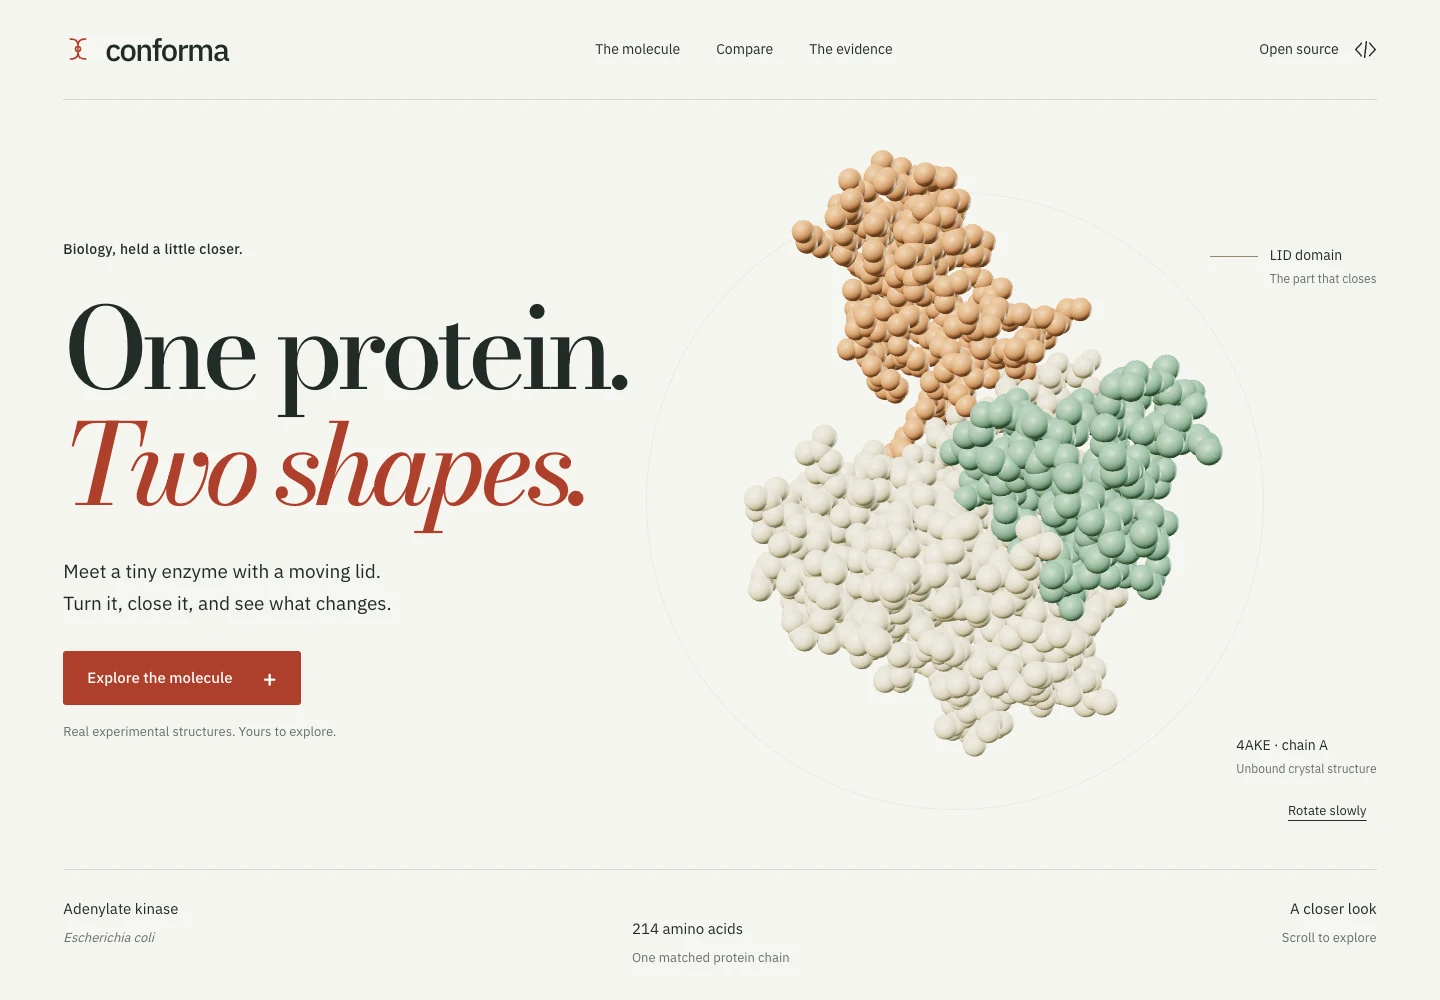
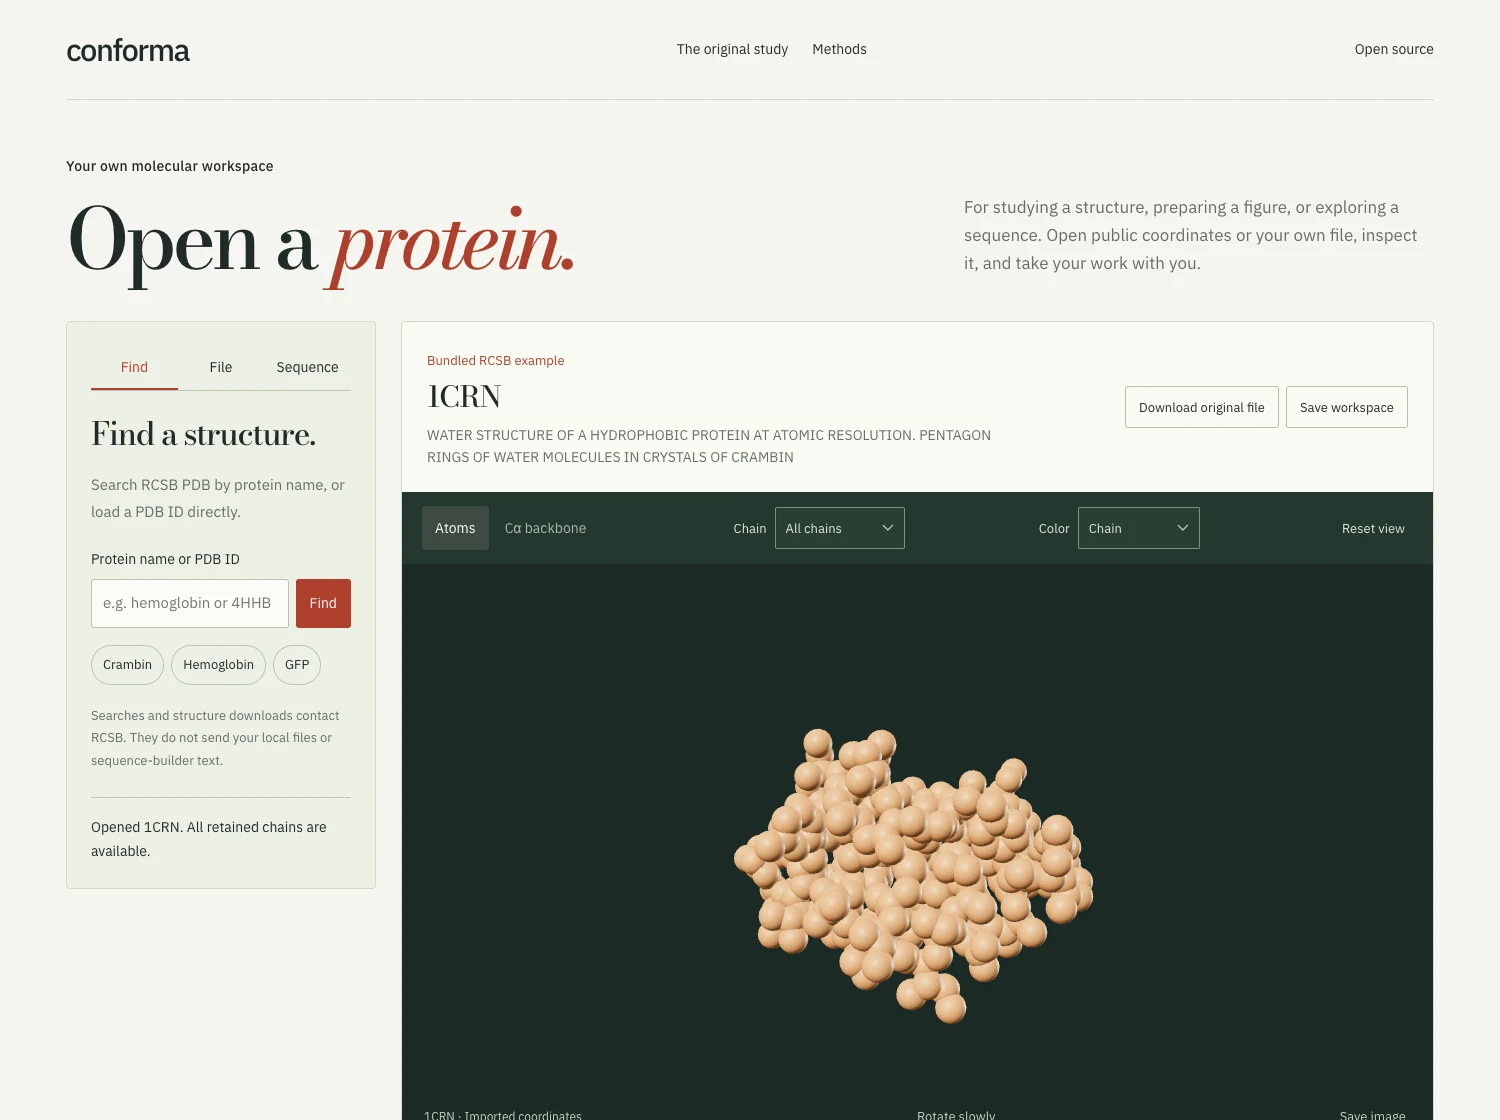
Present Conforma as a portable protein workspace with a personal project story

diff --git a/data/projects.ts b/data/projects.ts
@@ -24,42 +24,38 @@ export const projects: Project[] = [
   "slug": "conforma",
   "name": "Conforma",
   "category": "Interactive structural biology",
-  "summary": "One protein. Two shapes.",
-  "detail": "Turn a real molecular structure, compare two experimental conformations, and measure what changes. Conforma brings a reproducible structural comparison into an editorial, hands-on WebGL experience.",
-  "tech": "Protein structures · Rigid alignment · WebGL · Independent numerical checks",
+  "summary": "Open a protein. Keep the work.",
+  "detail": "A browser-based protein workspace: find public structures, open local coordinates, construct sequence geometry, inspect and measure atoms, and save a workspace you can reopen without an account.",
+  "tech": "PDB/mmCIF · WebGL · Sequence geometry · Portable workspaces",
   "color": "#cf946e",
   "kind": "pattern",
   "example": false,
   "image": "/images/conforma.webp",
-  "imageAlt": "Conforma working application: a real adenylate kinase structure rendered beside its editorial cover",
-  "imageCaption": "Actual Conforma application · published PDB coordinates, stylized atomic display",
+  "imageAlt": "Conforma protein workspace displaying real hemoglobin coordinates and molecular inspection controls",
+  "imageCaption": "Working protein workspace · real coordinates, local imports and portable exports",
   "focus": [
-    "Published experimental structures",
-    "Core-versus-whole-chain alignment",
-    "Reproducible endpoint measurements"
+    "Public and private coordinate imports",
+    "Local sequence construction",
+    "Reopenable workspaces with integrity checks"
   ],
   "story": [
-    {
-      "title": "Start with two real observations",
-      "text": "The experience compares adenylate kinase in its unbound 4AKE structure and AP5A inhibitor-bound 1AKE structure. It matches 214 Cα residues and 1,656 common heavy atoms, keeping raw coordinate files, source URLs, retrieval times and SHA-256 hashes with the project."
-    },
-    {
-      "title": "Make the comparison tangible",
-      "text": "A custom instanced WebGL renderer lets you rotate atomic beads or a smooth Cα backbone, highlight the core, NMP region and lid, and overlay the endpoints. A residue ruler reports distances in both observed structures. Full study JSON and labeled PNG exports preserve the analysis context."
-    },
-    {
-      "title": "Let the reference frame be questioned",
-      "text": "A Horn quaternion fit aligns the structures using either 133 core Cα atoms or all 214 matched residues. Changing that selection recalculates the displacement plot and domain RMSDs, making alignment sensitivity visible rather than hiding it behind a single score."
-    },
-    {
-      "title": "Check the mathematics independently",
-      "text": "Ten core tests cover source integrity, coordinate derivation, rigid transforms, reflection rejection, correspondence and measurement invariance. An executed NumPy SVD comparison checked both real fits and 30 seeded transform cases. Desktop, emulated-phone, export and non-WebGL fallback workflows passed in a software-WebGL browser."
-    },
-    {
-      "title": "Keep the picture honest",
-      "text": "Intermediate slider frames are linear geometric interpolation, not a measured transition or molecular-dynamics trajectory. Atomic beads are a stylized display. The app does not compute a reaction mechanism, energies, rates or binding affinity. Physical-device and experimental validation are not claimed."
-    }
-  ],
+  {
+    "title": "Why I\u2019m building this",
+    "text": "I\u2019m a chemical biology student at UC Berkeley. I want people to be able to bring their own question to a protein, inspect its coordinates and leave with something they can reuse. Conforma makes that intent practical: local files stay on the device, methods are open, and workspaces can be saved without an account."
+  },
+  {
+    "title": "From a sequence or structure to useful work",
+    "text": "Search RCSB PDB by name or ID, open a local PDB/mmCIF file, select chains, inspect residues and measure atom distances. Export original coordinates, a labeled image or modeled-residue FASTA. The sequence builder constructs idealized geometry from chosen backbone torsions and optional CCD side-chain templates; it does not predict a native fold."
+  },
+  {
+    "title": "Save work that actually reopens",
+    "text": "Version 2 workspace records embed coordinate text and view settings. Reopening checks SHA-256, reparses source coordinates and ignores saved parsed atoms and claimed source URLs. Constructed models are rebuilt from a recipe and must reproduce the saved PDB. The hash checks integrity, not scientific validity or authenticated provenance."
+  },
+  {
+    "title": "Keep the original evidence workbench",
+    "text": "The original adenylate kinase comparison remains available as a separate study. Its Horn quaternion fitting engine was checked against NumPy SVD on both real fits and 30 seeded transforms. The project also includes parser, geometry and portable-record tests, plus browser checks with software WebGL and an emulated phone. No physical-device or experimental validation is claimed."
+  }
+],
   "links": [
     {
       "label": "Open Conforma",
@@ -75,7 +71,7 @@ export const projects: Project[] = [
     }
   ],
   "liveUrl": "https://rp-conforma.vercel.app",
-  "status": "Working web application · independently checked numerical engine"
+  "status": "Protein workspace · local processing · reproducible exports"
 },
 {
   "slug": "parallax",

diff --git a/README.md b/README.md
@@ -42,7 +42,7 @@ Next.js exports the static site to `out/`. Serve that directory with any static 
 
 ## Featured applications
 
-- **[Conforma](https://rp-conforma.vercel.app)** — an interactive comparison of two experimental protein structures, with custom molecular rendering, alignment sensitivity, endpoint measurements and independent numerical checks. [Portfolio case study](https://rishitpradhan.com/projects/conforma/).
+- **[Conforma](https://rp-conforma.vercel.app)** — search and visualize protein structures, construct sequence geometry, and save portable workspaces that reopen locally. [Why I built it](https://rp-conforma.vercel.app/#why) · [Portfolio case study](https://rishitpradhan.com/projects/conforma/).
 
 - **[Parallax](https://rp-parallax.vercel.app)** — first-person Earth rendering from real propagated satellite positions, dated NASA imagery, and reproducible pass planning. [Portfolio case study](https://rishitpradhan.com/projects/parallax/).
 - **[Axon](https://rp-axon.vercel.app)** — browser-local EEG inspection with calibrated import, Welch PSD, and executed numerical comparisons against SciPy. [Portfolio case study](https://rishitpradhan.com/projects/axon/).
